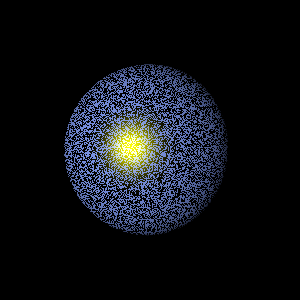
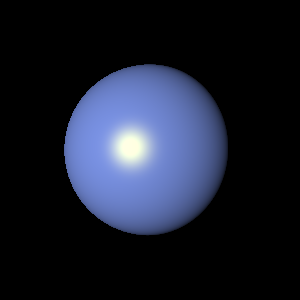
PA1 code bug fixed

Changed region(s): [[0.21, 0.21, 0.78, 0.78]]

diff --git a/PA1/rayTracer.py b/PA1/rayTracer.py
@@ -72,8 +72,8 @@ def main():
         viewUp = np.array(c.findtext('viewUp').split()).astype(np.float64)
 
         if c.findtext('projDistance'): projDistance = float(c.findtext('projDistance'))
-        viewWidth  = float(c.findtext('viewWidth'))
-        viewHeight = float(c.findtext('viewHeight'))
+        if c.findtext('viewWidth'): viewWidth  = float(c.findtext('viewWidth'))
+        if c.findtext('viewHeight'): viewHeight = float(c.findtext('viewHeight'))
 
         print('viewpoint', viewPoint)
 
@@ -151,7 +151,7 @@ def main():
                     in_shadow = False
                     for s in surfaces:
                         li = s.intersect(hit_point, l)
-                        if li is not None and li < l_dist:
+                        if li is not None and li < l_dist and li > .0001:
                             in_shadow = True
                             break;
                     if in_shadow: continue
@@ -159,11 +159,11 @@ def main():
                     diff = max(.0, np.dot(n, l))
                     pixel_color += hit_sphere.diffuse * intensity * diff
 
-                if hit_sphere.specular is not None:
-                    h = l - ray_dir
-                    h = h / np.linalg.norm(h)
-                    spec = max(.0, np.dot(n, h)) ** hit_sphere.exponent
-                    pixel_color += hit_sphere.specular * intensity * spec
+                    if hit_sphere.specular is not None:
+                        h = l - ray_dir
+                        h = h / np.linalg.norm(h)
+                        spec = max(.0, np.dot(n, h)) ** hit_sphere.exponent
+                        pixel_color += hit_sphere.specular * intensity * spec
 
                 c = Color(*pixel_color)
                 c.gammaCorrect(2.2)
